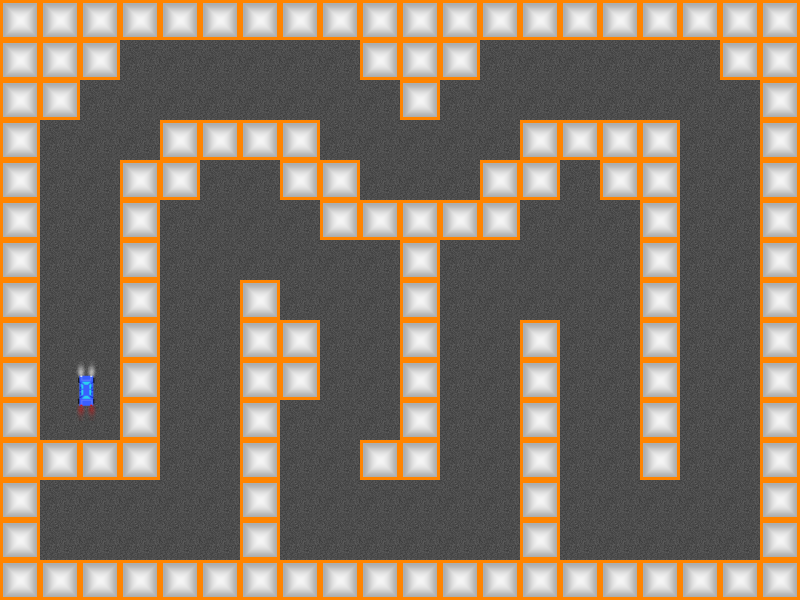
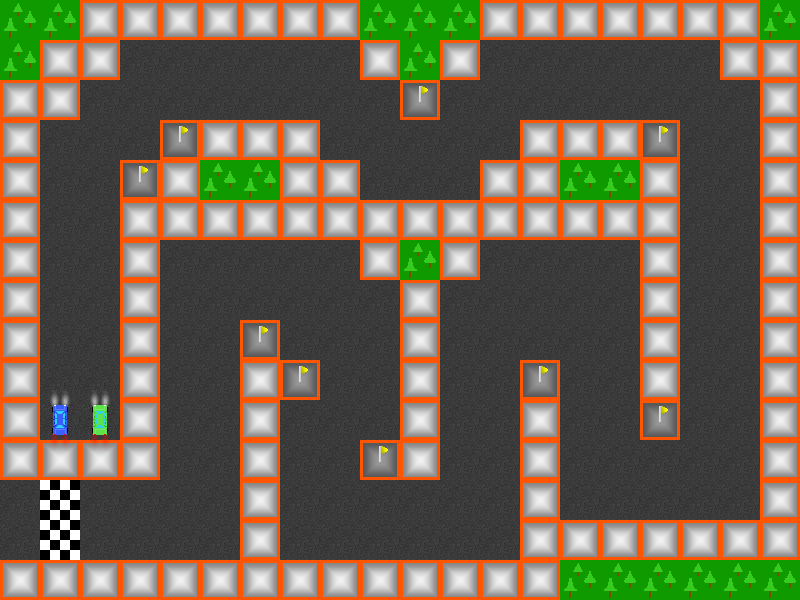
added in new tile handeling and more then one map

diff --git a/JavaScript/RacingGame/track.js b/JavaScript/RacingGame/track.js
@@ -4,7 +4,7 @@ const TRACK_COLS = 20;
 const TRACK_ROWS = 15;
 const TRACK_GAP = 2;
 
-var trackGrid = [5, 5, 1, 1, 1, 1, 1, 1, 1, 5, 5, 5, 1, 1, 1, 1, 1, 1, 1, 5, 
+var levelOne = [5, 5, 1, 1, 1, 1, 1, 1, 1, 5, 5, 5, 1, 1, 1, 1, 1, 1, 1, 5, 
                  5, 1, 1, 0, 0, 0, 0, 0, 0, 1, 5, 1, 0, 0, 0, 0, 0, 0, 1, 1,
                  1, 1, 0, 0, 0, 0, 0, 0, 0, 0, 4, 0, 0, 0, 0, 0, 0, 0, 0, 1,
                  1, 0, 0, 0, 4, 1, 1, 1, 0, 0, 0, 0, 0, 1, 1, 1, 4, 0, 0, 1,
@@ -19,6 +19,25 @@ var trackGrid = [5, 5, 1, 1, 1, 1, 1, 1, 1, 5, 5, 5, 1, 1, 1, 1, 1, 1, 1, 5,
                  0, 3, 0, 0, 0, 0, 1, 0, 0, 0, 0, 0, 0, 1, 0, 0, 0, 0, 0, 1,
                  0, 3, 0, 0, 0, 0, 1, 0, 0, 0, 0, 0, 0, 1, 1, 1, 1, 1, 1, 1,
                  1, 1, 1, 1, 1, 1, 1, 1, 1, 1, 1, 1, 1, 1, 5, 5, 5, 5, 5, 5,];
+
+var levelTwo = [5, 5, 1, 1, 1, 1, 1, 1, 1, 1, 1, 1, 5, 1, 1, 1, 1, 1, 1, 1, 
+                5, 5, 1, 0, 0, 0, 0, 0, 0, 0, 0, 1, 1, 0, 0, 0, 0, 0, 0, 1,
+                5, 1, 1, 0, 0, 0, 0, 0, 0, 0, 0, 1, 1, 0, 0, 0, 0, 0, 0, 1,
+                1, 1, 0, 0, 0, 4, 1, 1, 1, 0, 0, 1, 1, 0, 0, 0, 4, 0, 0, 1,
+                1, 0, 0, 0, 0, 1, 1, 1, 4, 0, 0, 1, 1, 0, 0, 0, 1, 0, 0, 1,
+                1, 0, 0, 4, 1, 1, 0, 0, 0, 0, 0, 1, 1, 0, 0, 0, 1, 0, 0, 1,
+                1, 0, 0, 1, 5, 1, 0, 0, 0, 0, 0, 1, 5, 4, 0, 0, 1, 0, 0, 1,
+                1, 0, 0, 4, 1, 1, 0, 0, 4, 1, 1, 1, 5, 1, 0, 0, 1, 0, 0, 1,
+                1, 0, 0, 0, 0, 1, 0, 0, 0, 0, 0, 1, 5, 1, 0, 0, 1, 0, 0, 1,
+                1, 0, 0, 0, 0, 1, 0, 0, 0, 0, 0, 1, 5, 1, 0, 0, 1, 0, 0, 1,
+                1, 1, 4, 0, 0, 1, 1, 4, 0, 0, 0, 4, 1, 4, 0, 0, 1, 0, 0, 1,
+                5, 1, 1, 0, 0, 1, 5, 1, 4, 0, 0, 0, 0, 0, 0, 0, 1, 0, 0, 1,
+                0, 3, 0, 0, 0, 1, 5, 5, 1, 0, 0, 0, 0, 0, 0, 0, 1, 0, 0, 1,
+                0, 3, 0, 0, 0, 1, 5, 5, 1, 1, 0, 0, 0, 1, 1, 1, 1, 2, 2, 1,
+                5, 1, 1, 1, 1, 1, 5, 5, 5, 1, 1, 1, 1, 1, 5, 5, 1, 1, 1, 1,];
+
+var trackGrid = [];
+
 const TRACK_ROAD = 0;
 const TRACK_WALL = 1;
 const TRACK_PLAYER_START = 2;
@@ -26,14 +45,14 @@ const TRACK_FINISH = 3;
 const TRACK_FLAG = 4;
 const TRACK_TREE = 5;
 
-function isObstacleAtColRow(col, row) {
+function returnTileTypeAtColRow(col, row) {
     if(col >= 0 && col < TRACK_COLS && row >= 0 && row < TRACK_ROWS){
         var trackIndexUnderCoord = rowColToArrayIndex(col, row);
-        return (trackGrid[trackIndexUnderCoord] != TRACK_ROAD);
+        return trackGrid[trackIndexUnderCoord];
     } else{
-        return false;
+        return TRACK_WALL;
     }
-}// end of isObstacleAtColRow
+}// end of returnTileTypeAtColRow
 
 function carTrackHandling(whichCar){
     var carTrackCol = Math.floor(whichCar.x / TRACK_W);
@@ -41,8 +60,12 @@ function carTrackHandling(whichCar){
     var trackIndexUndercar = rowColToArrayIndex(carTrackCol, carTrackRow);
     
     if(carTrackCol >= 0 && carTrackCol < TRACK_COLS && carTrackRow >= 0 && carTrackRow < TRACK_ROWS){
-        if(isObstacleAtColRow(carTrackCol, carTrackRow)){
+        var tileHere = returnTileTypeAtColRow(carTrackCol, carTrackRow)
+        if(tileHere == TRACK_FINISH){
+            console.log(whichCar.name + " WINS!!!");
+            loadLevel(levelTwo);
 
+        }else if(tileHere != TRACK_ROAD){
             //undoes car movment which got it onto the wall
             //this is so the center of the car is no longer overlaping the wall
             //with out this the car can also drill through the walls of the track

diff --git a/JavaScript/RacingGame/car.js b/JavaScript/RacingGame/car.js
@@ -11,6 +11,7 @@ function carClass(){
     this.angle = 0;
     this.speed = 0;
     this.myCarPic; //which picture to use
+    this.name = "Untitled Car";
 
     this.keyHeld_Gas = false;
     this.keyHeld_Reverse = false;
@@ -29,8 +30,10 @@ function carClass(){
         this.controlKeyLeft = leftKey;
     }
 
-    this.reset = function(whichImage) {
-         this.myCarPic = whichImage;
+    this.reset = function(whichImage, carName) {
+        this.name = carName;
+        this.myCarPic = whichImage;
+        this.speed = 0;
         for (let eachRow = 0; eachRow < TRACK_ROWS; eachRow++) {
             for(var eachCol=0; eachCol<TRACK_COLS; eachCol++){
 
@@ -45,6 +48,8 @@ function carClass(){
                 } // end of player start if
             } // end of col for
         } // end of row for
+        console.log("NO PLAYER START FOUND");
+        
     } // end of carReset
 
     this.draw = function(){    

diff --git a/JavaScript/RacingGame/MainRacing.js b/JavaScript/RacingGame/MainRacing.js
@@ -16,8 +16,13 @@ function imageLoadingDoneStartGame(){
     setInterval(updateAll, 1000/framesPerSecond);
 
     setupInput();    
-    blueCar.reset(blueCarPic);
-    greenCar.reset(greenCarPic);
+    loadLevel(levelOne);
+}
+
+function loadLevel(whichLevel){
+    trackGrid = whichLevel.slice(); // this is copying the track level array so it can be changed as they game is played, but not change the initial state of the map
+    blueCar.reset(blueCarPic, "Blue Car");
+    greenCar.reset(greenCarPic, "Green Car");
 }
 
 function updateAll() {
